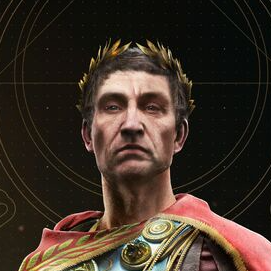
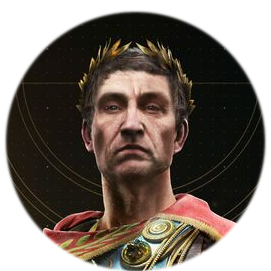
Changed Caesar to round picture

Changed region(s): [[0.0, 0.0, 1.0, 1.0]]

diff --git a/styles/layout.scss b/styles/layout.scss
@@ -121,3 +121,7 @@ input[type=text] {
   text-decoration: none;
   color: #FFFFFF;
 }
+
+.navbar-toggler {
+  visibility: hidden;
+}
